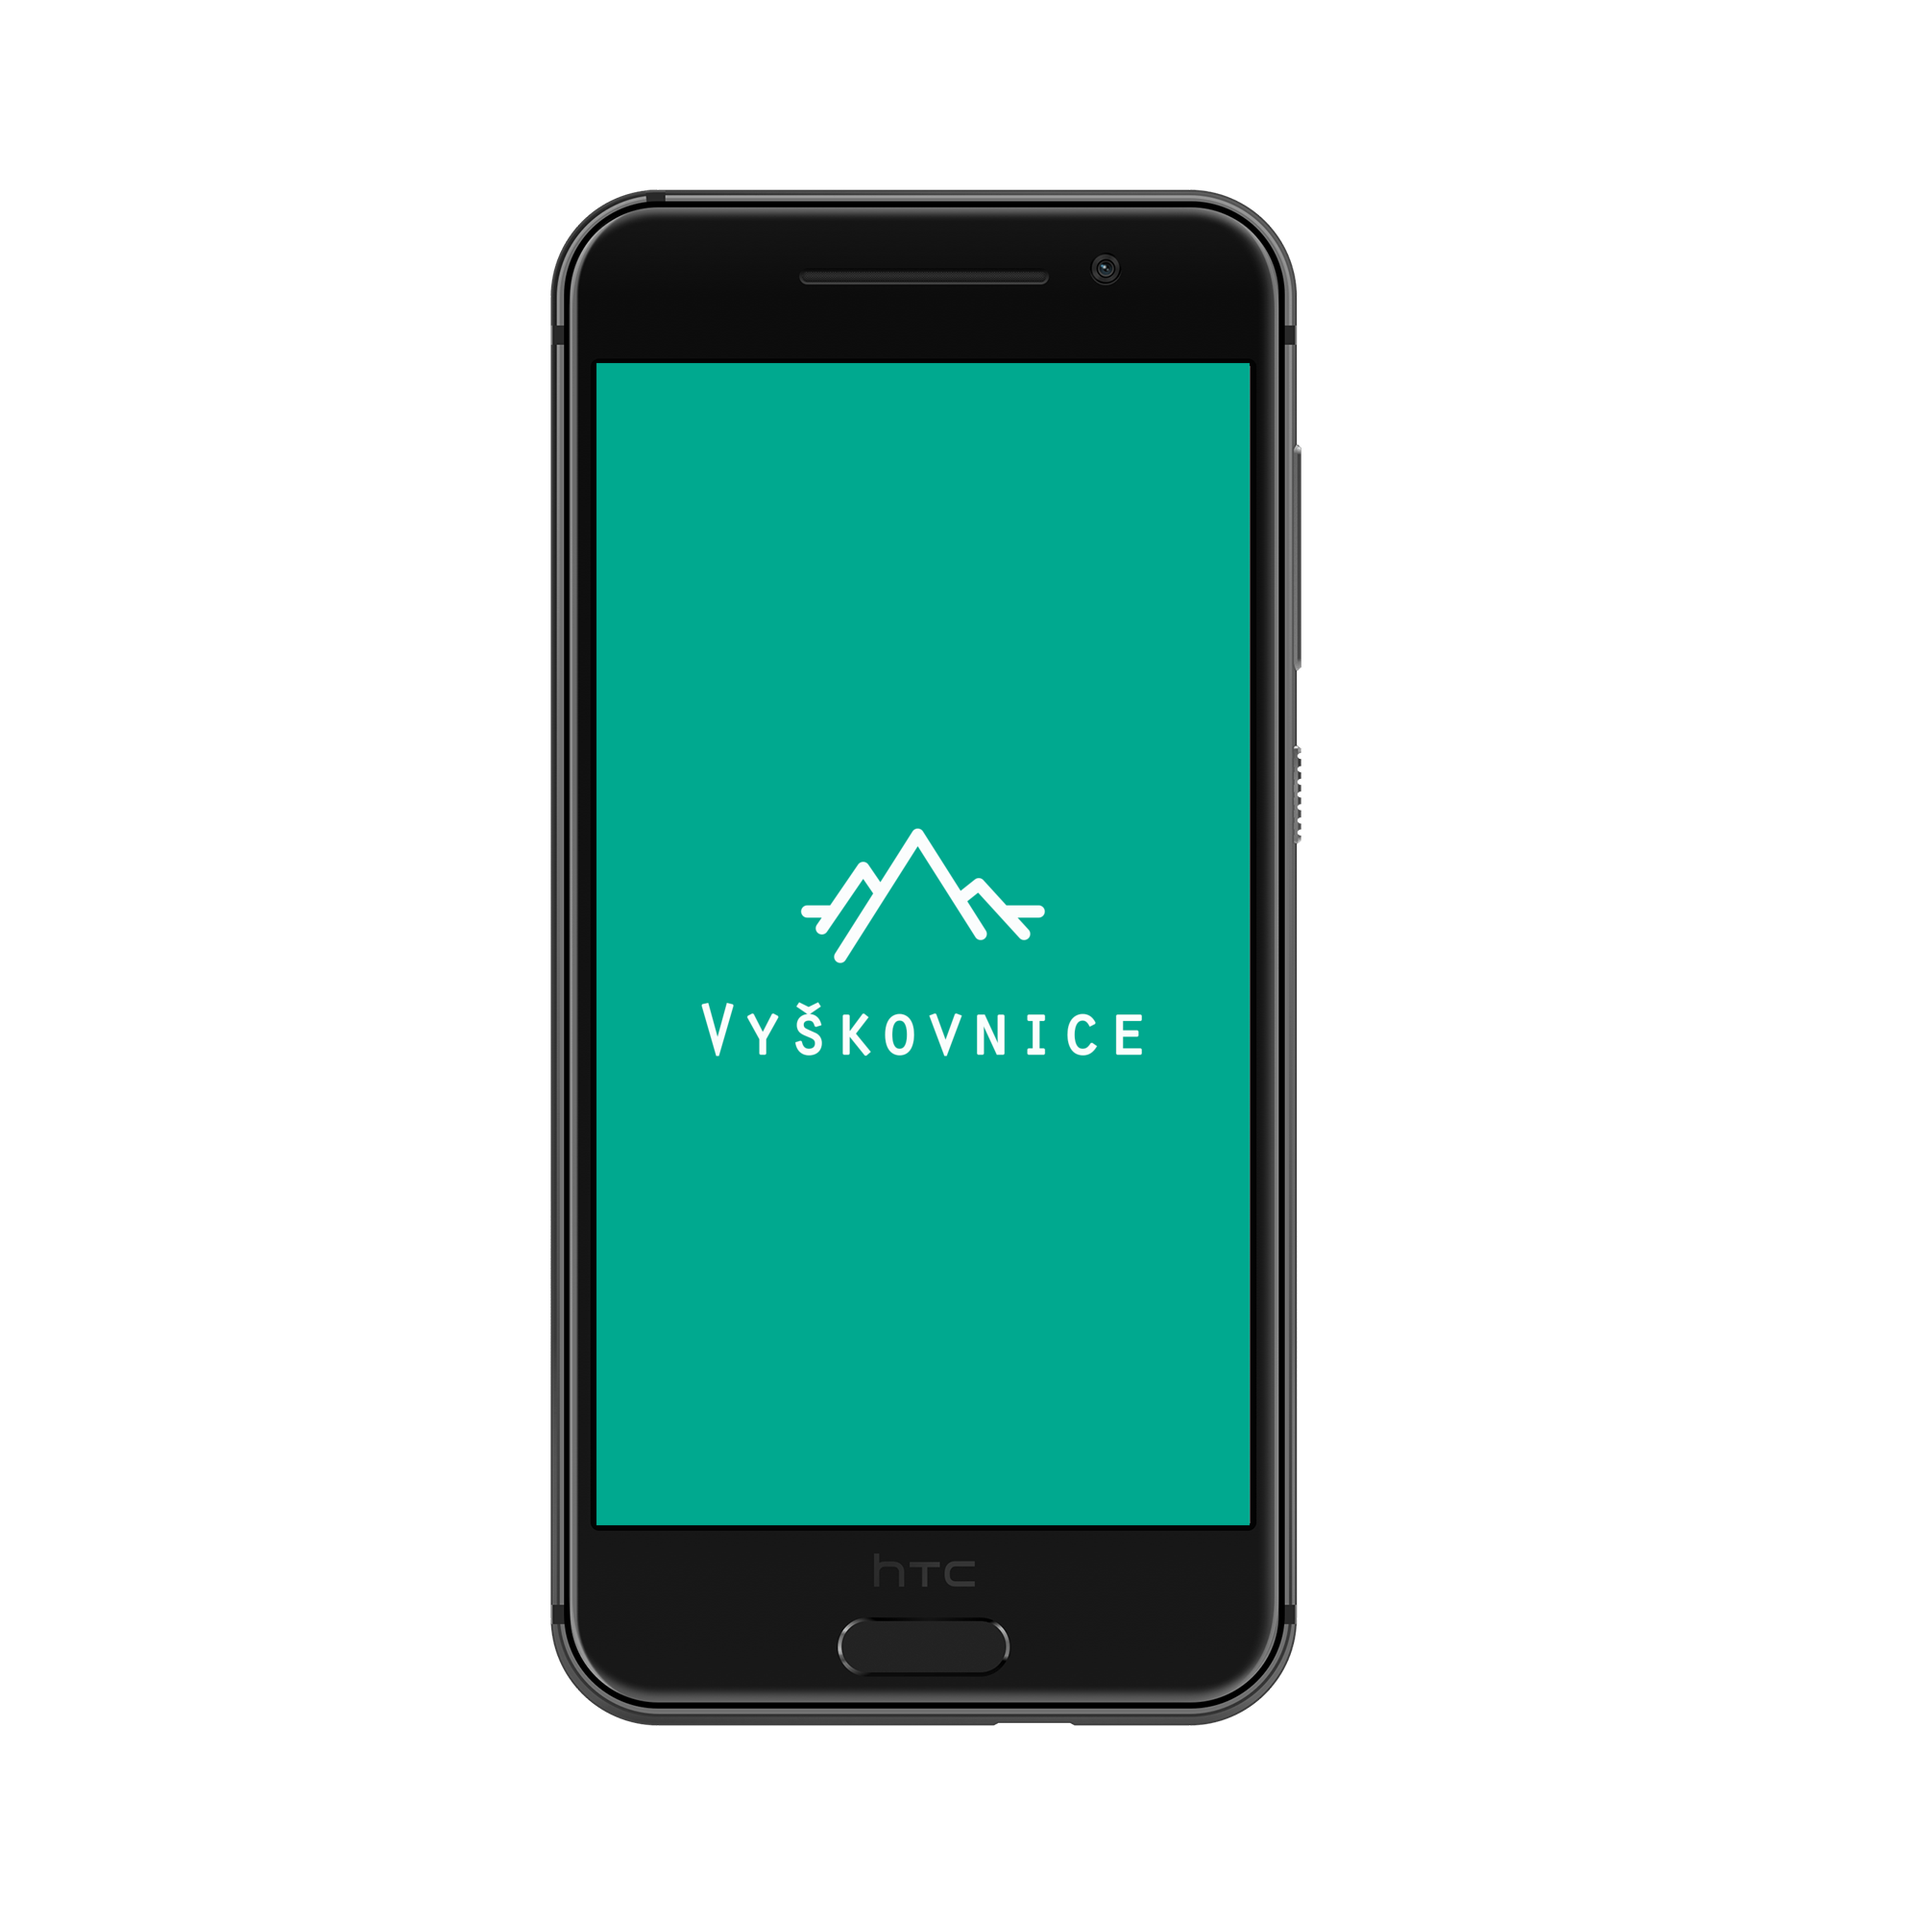
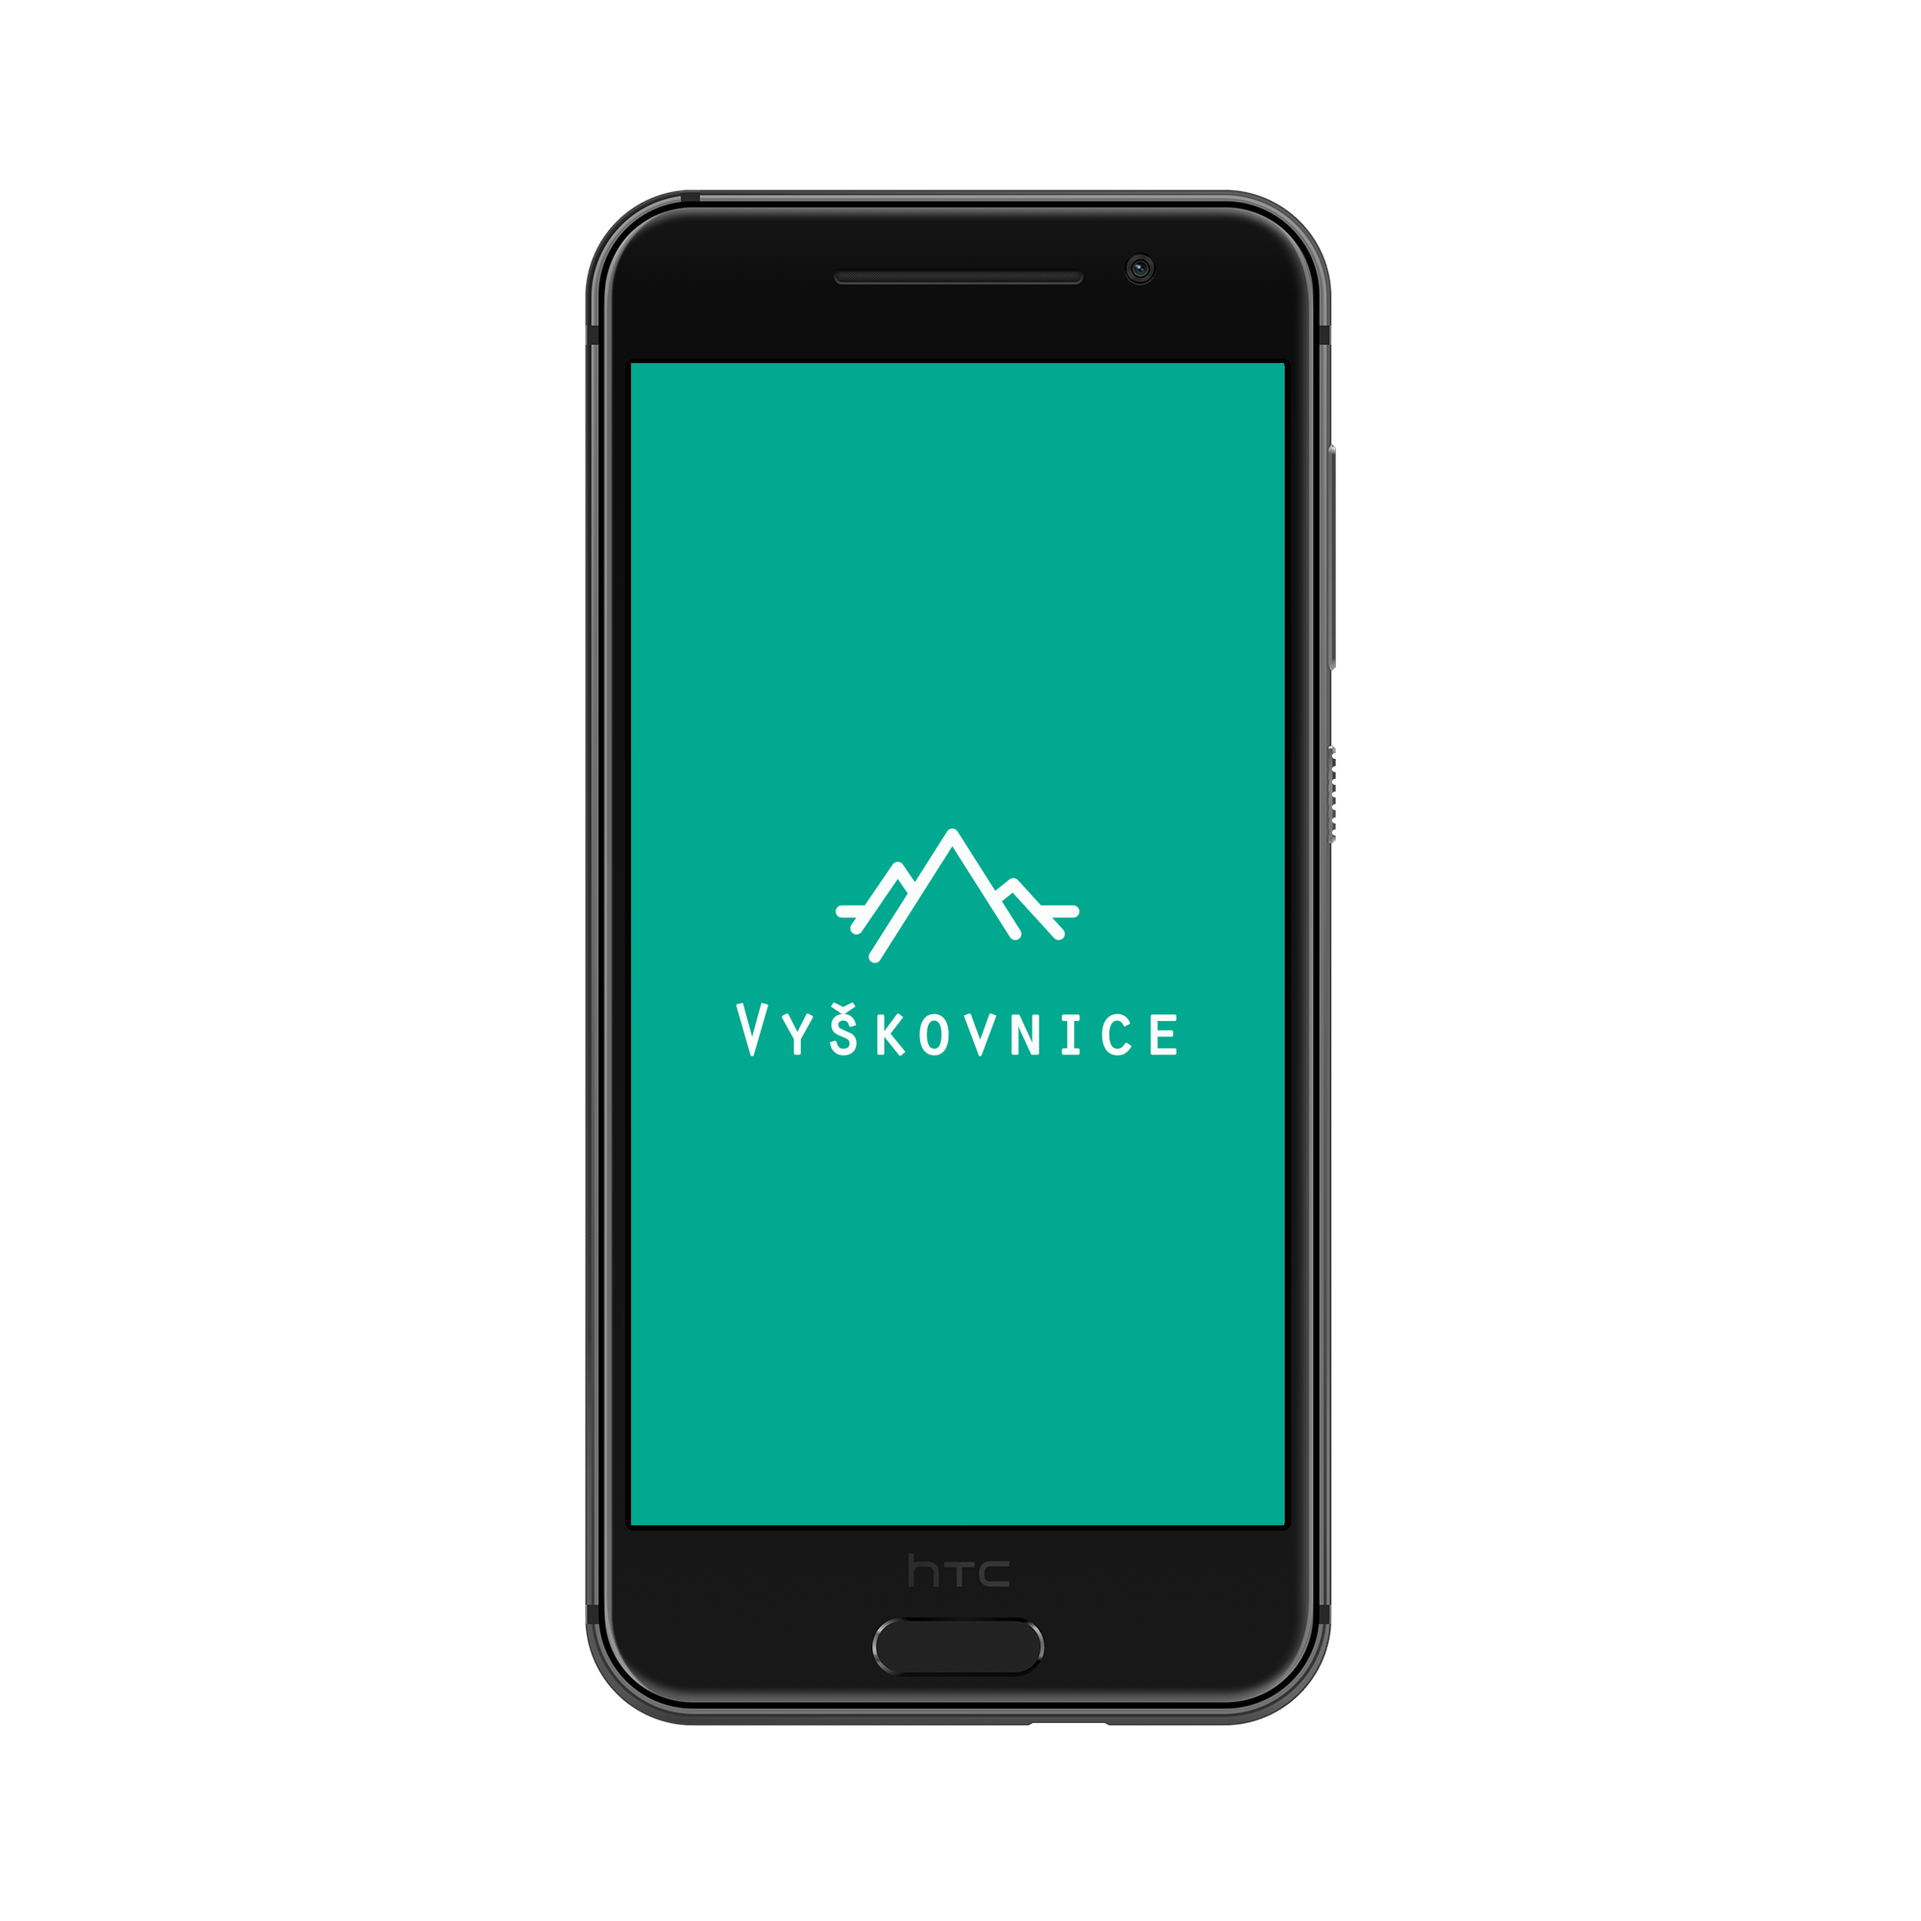
Made images more responsive

diff --git a/index.html b/index.html
@@ -117,7 +117,7 @@
                 </div>
                 <div class="col-md-4">
                     <div>
-                        <img src="IMAGES/about_mockup.png" width="500px" height="500px">
+                        <img class="center-block" src="IMAGES/about_mockup.png" width="500px" height="500px">
                     </div>
                 </div>
             </div><!--end of the row-->
@@ -179,7 +179,7 @@
     <section>
         <div class="page-header" id="un">
             <h2 class="ml2">Unique Features.
-                <small class="light-gray">Some of the coolest features of the app</small>
+                <small class="light-gray">Coolest features of the app</small>
             </h2>
         </div>
         <div class="row">
@@ -246,9 +246,9 @@
                         </button>
                     </div>
                 </div>
-                <div class="col-md-4">
+                <div class="col-md-4 center-block">
                     <div>
-                        <img src="IMAGES/download_mockup.png" width="500px" height="500px">
+                        <img class="center-block" src="IMAGES/download_mockup.png" width="500px" height="500px">
                     </div>
                 </div>
             </div><!--end of the row-->
